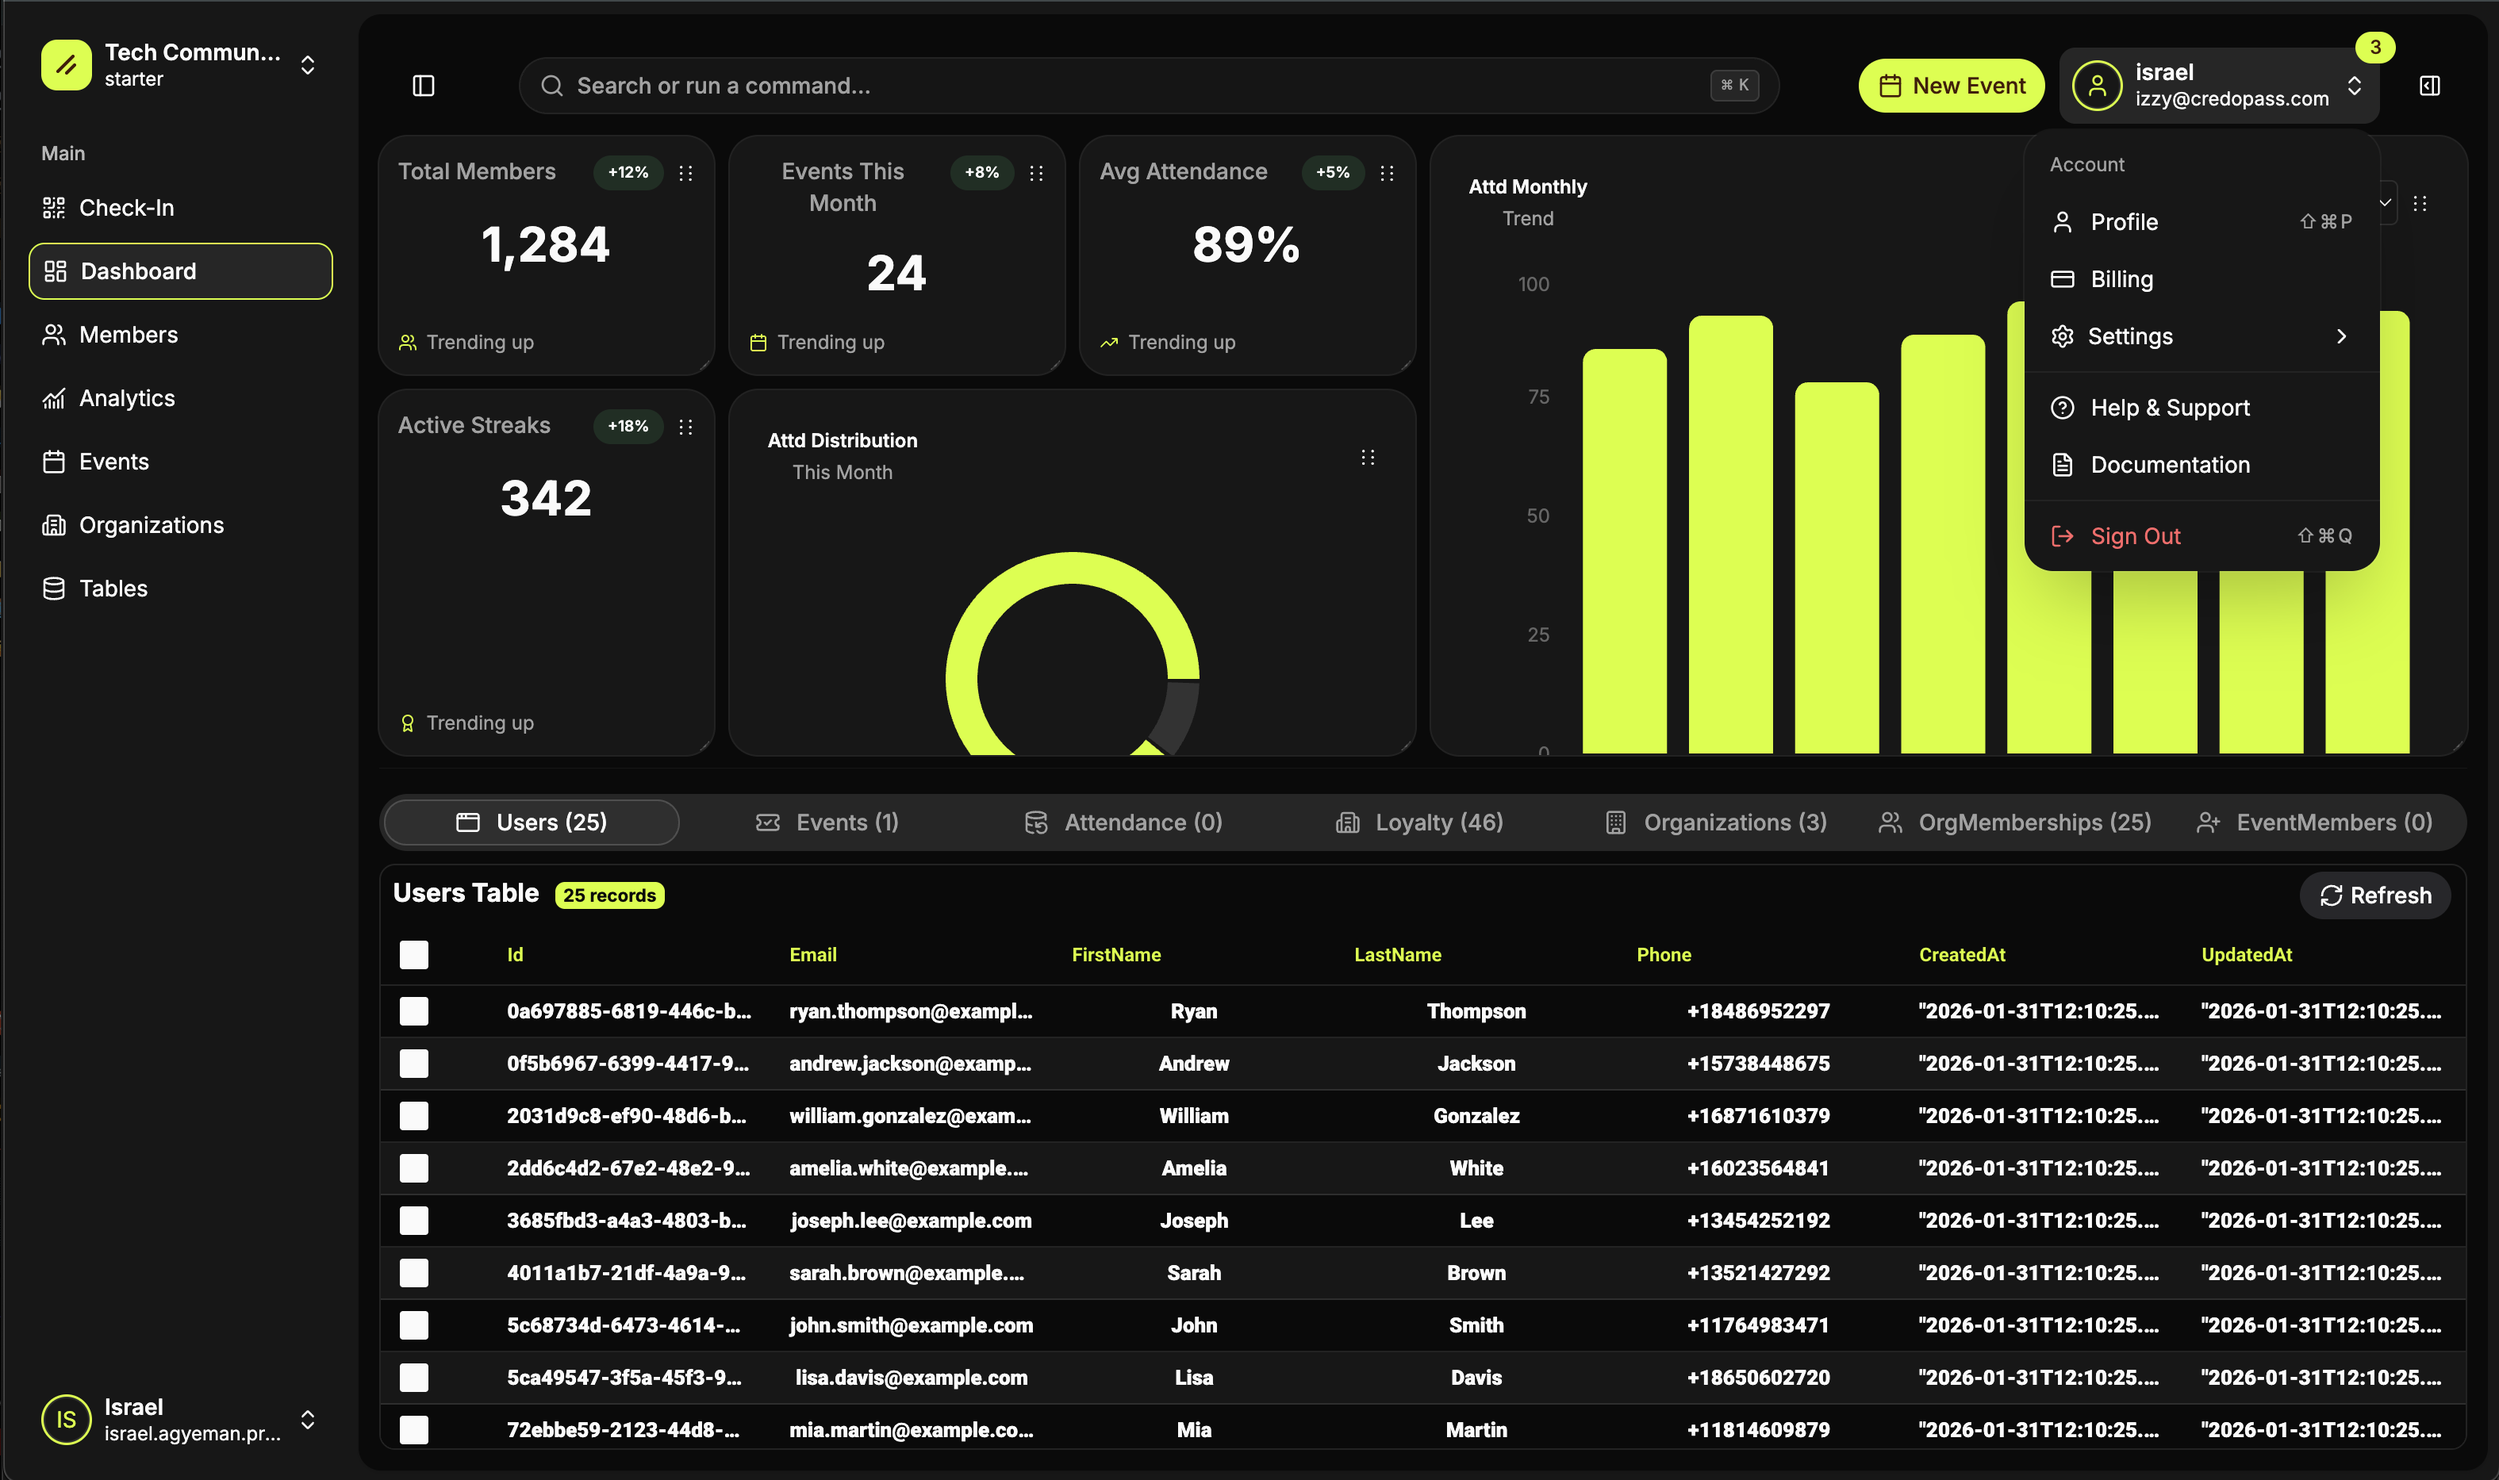
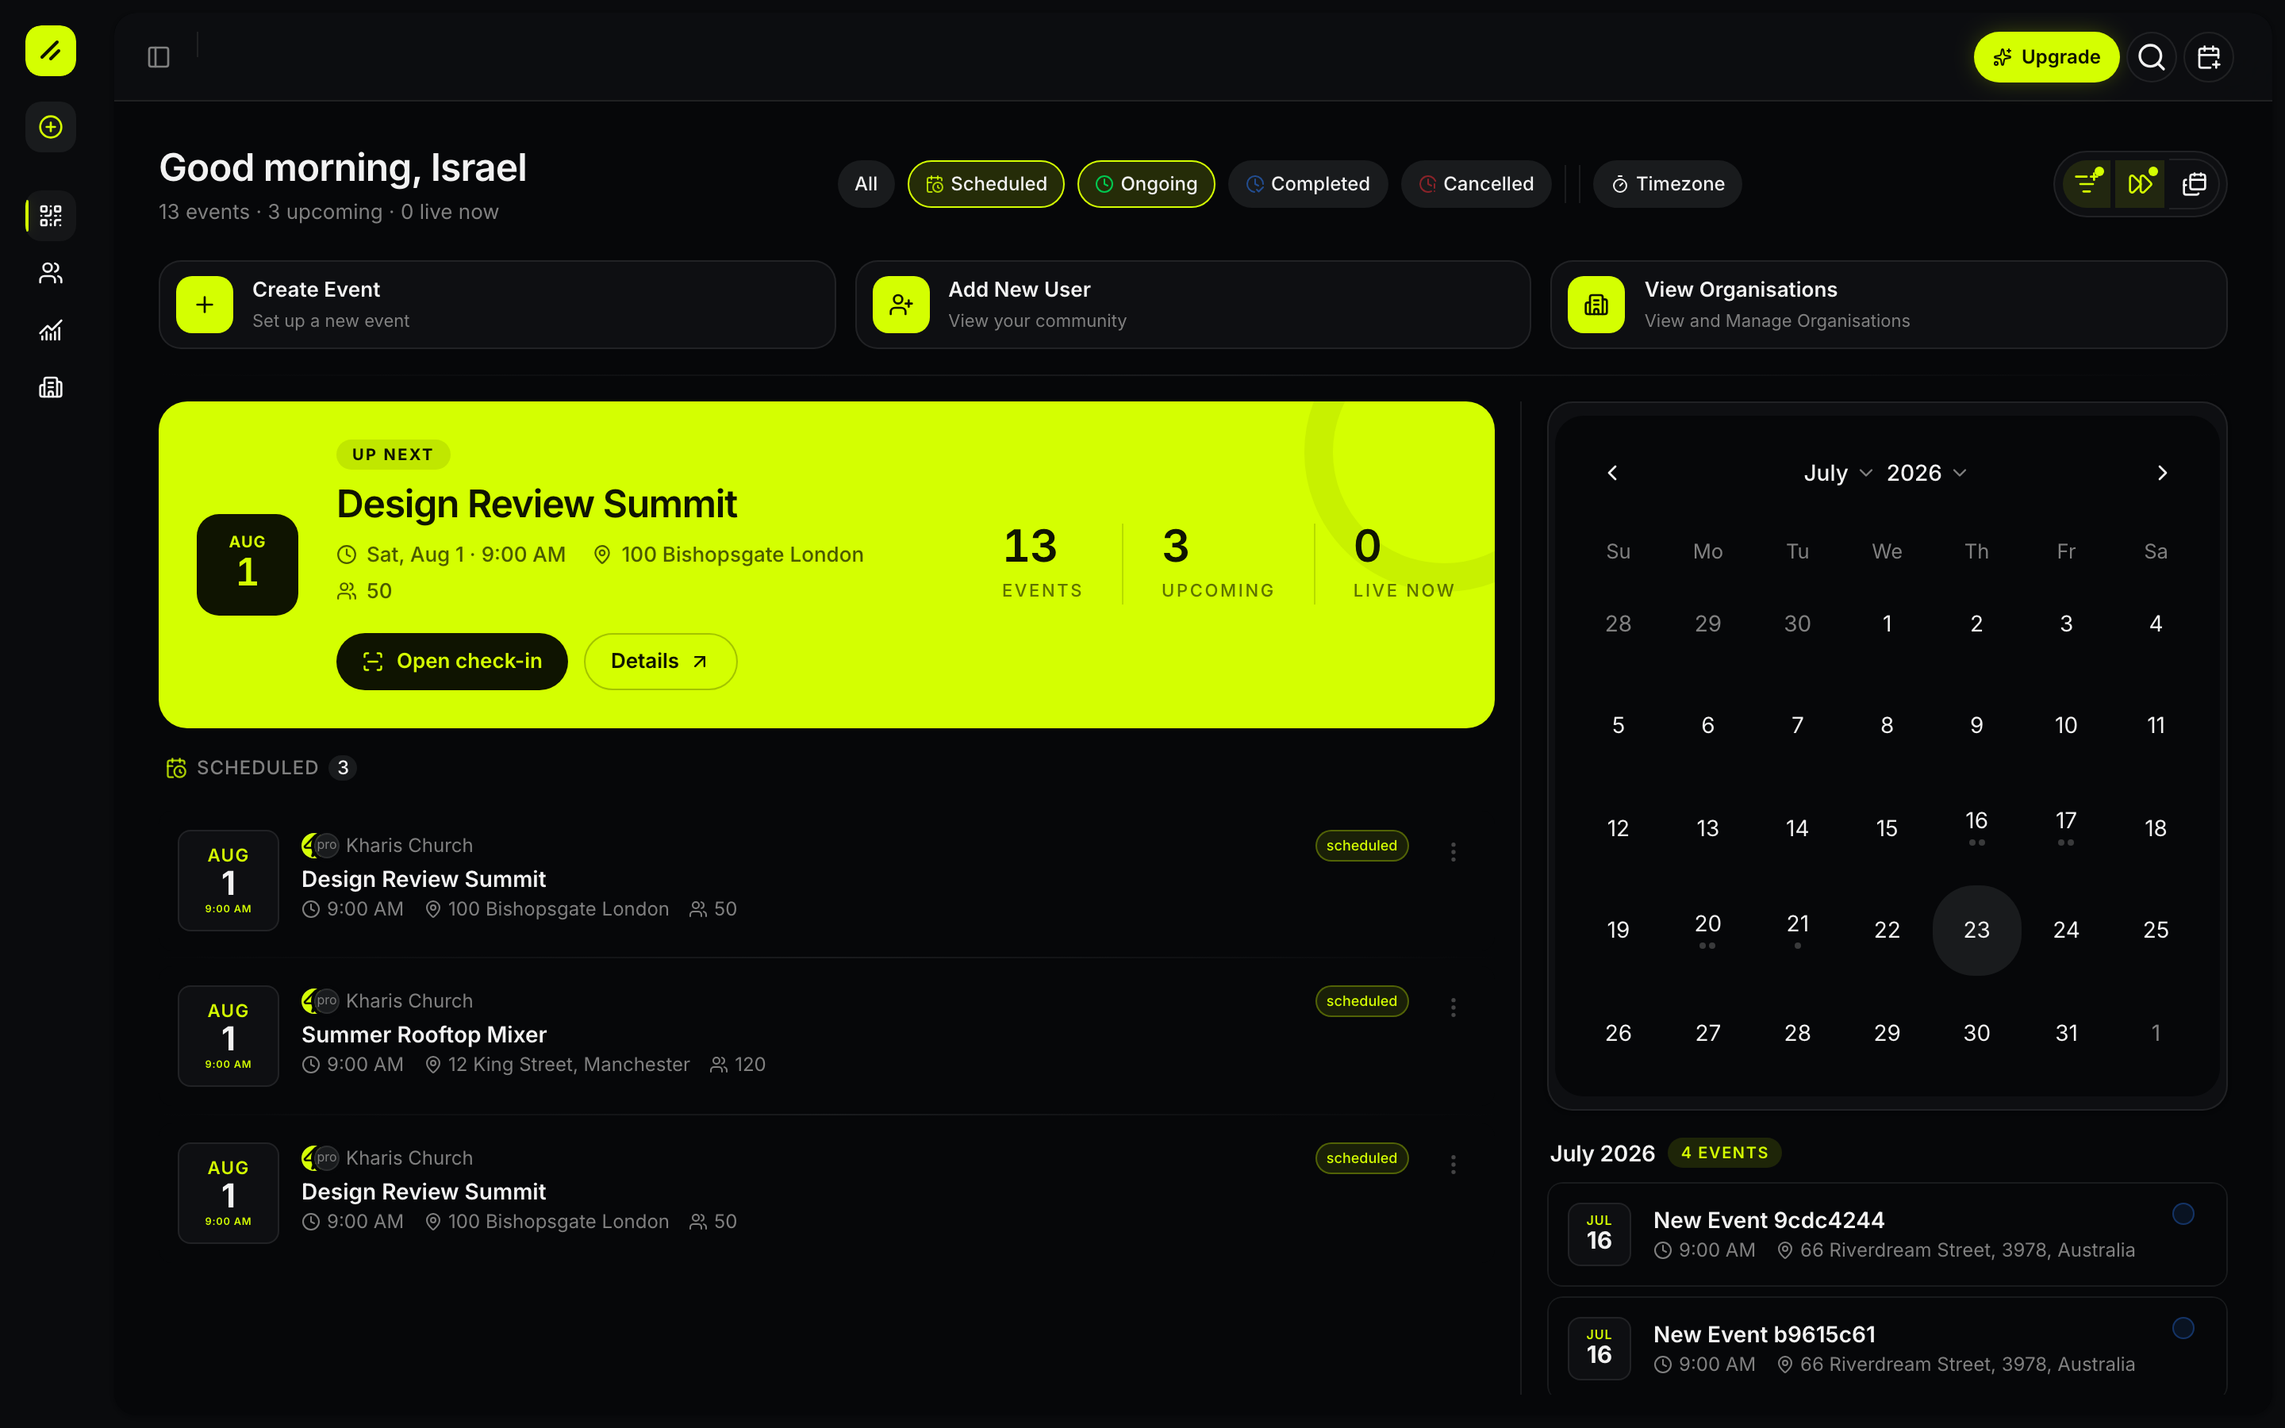
feat(website): refresh all product imagery with redesigned app screenshots (@2x), add Event Tickets showcase section

diff --git a/apps/website/src/pages/Home.tsx b/apps/website/src/pages/Home.tsx
@@ -486,6 +486,35 @@ export function Home() {
               </div>
             </div>
           </Reveal>
+
+          {/* Event Tickets */}
+          <Reveal>
+            <div className="grid lg:grid-cols-2 gap-8 lg:gap-16 items-center">
+              <div className="relative order-2 lg:order-1">
+                <div className="absolute -inset-4 bg-gradient-to-br from-primary/15 to-transparent rounded-3xl blur-3xl" />
+                <div className="relative rounded-xl lg:rounded-2xl overflow-hidden border border-border/50 shadow-[0_32px_64px_-16px_rgba(0,0,0,0.4)]">
+                  <ImageWithFallback src="/images/ticket.png" alt="Event Ticket with QR entry pass" className="w-full h-auto" />
+                </div>
+              </div>
+              <div className="flex flex-col gap-6 order-1 lg:order-2">
+                <Badge variant="outline" className="w-fit">Event Tickets</Badge>
+                <h2 className="text-4xl sm:text-5xl font-bold tracking-tighter">
+                  Tickets people <span className="text-primary">want to show off</span>
+                </h2>
+                <p className="text-lg text-muted-foreground leading-relaxed">
+                  Every event gets a beautiful digital ticket -- date, venue, capacity and a live QR entry pass. One tap opens the check-in kiosk at the door.
+                </p>
+                <ul className="flex flex-col gap-3">
+                  {['Shareable ticket with built-in QR entry pass', 'One tap from ticket to check-in kiosk', 'Add to calendar with a single click'].map(t => (
+                    <li key={t} className="flex items-start gap-3">
+                      <CheckCircle2 className="w-5 h-5 text-primary mt-0.5 shrink-0" />
+                      <span className="text-muted-foreground">{t}</span>
+                    </li>
+                  ))}
+                </ul>
+              </div>
+            </div>
+          </Reveal>
         </div>
       </section>
 
